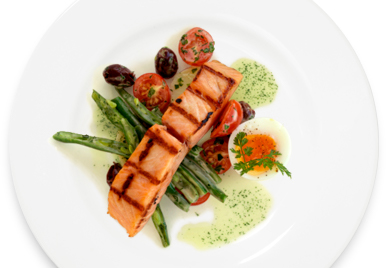
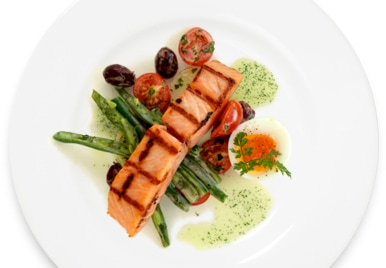
画像圧縮

diff --git a/styles/stylesheet_s.css b/styles/stylesheet_s.css
@@ -6,12 +6,10 @@ body {
 
 .container {
 	width: 90%;
-	margin: 0 auto;
 	padding: 0 5%;
 }
 
 .title {
-	margin: 0 auto;
 	padding-top: 13.793103%;
 	padding-bottom: 6.896552%;
 }
@@ -26,14 +24,8 @@ body {
 }
 
 header {
-	width: 100%;
 	height: auto;
-	background-color: white;
-	border-bottom: rgb(242,242,242) solid 2px;
 	padding-top: 0;
-	position :fixed;
-	top: 0;
-	z-index: 2;
 }
 
 .header-logo {
@@ -70,7 +62,6 @@ header {
 }
 
 .menu-wrapper {
-	background-color: rgb(249,235,210);
 	width: 100%;
 	height: auto;
 	padding-bottom: 7.34375%; 
@@ -209,30 +200,19 @@ header {
 .menu img {
 	width: 100%;
 	height: 100%;
-	margin: 0 auto;
 	vertical-align:bottom;
 }
 
-.menu-pic {
-	position: relative;
-	height: 100%;
-}
-
 .menu-pic a {
-	position: absolute;
 	top: 103.355705%;
 	width: 100%;
 	color: #6f5839;
 	font-size: 3.75vw;
-	text-align: center;
-	font-family: "Hiragino Kaku Gothic ProN","メイリオ",'Meiryo', sans-serif;
 }
 
 .menu-left {
 	width: 89.655172%;
 	height: auto;
-	background-color: white;
-	margin: 0 auto;
 	margin-bottom: 12.884615%;
 	padding-bottom: 0%; 
 }
@@ -240,27 +220,21 @@ header {
 .menu-right {
 	width: 89.655172%;
 	height: auto;
-	background-color: white;
-	margin: 0 auto;
 	margin-bottom: 12.884615%;
 }
 
 .news-wrapper {
 	width: 100%;
 	height: auto;
-
 }
 
 .title-news {
 	width: 67.241379%;
 	height: auto;
-	margin: 0 auto;
 }
 
 .news {
-	width: calc(100% / 2) ;
 	height: 100%;
-	float: left;
 	margin-bottom: 0;
  }
 
@@ -277,77 +251,54 @@ header {
 .news1 {
 	width: 87.586207%;
 	height: 40%;
-	background-color: white;
-	position: relative;
-	float: right;
 	margin-right: 1.724138%;
 	margin-bottom: 3.448276%;
 }
 
 .news-text1{
-	position: absolute;
 	top: 62.130178%;
 	height: 37.869822%;
-	width: 100%;
-	background-color: rgba(127,127,127,0.5);
 }
 
 .news-text1 p{
 	font-size: 3.75vw;
-	color:white;
 	margin: 5.859375% 7.857143% ;
-	vertical-align: middle;
 	line-height: 137.5%;
 }
 
 .news2 {
 	width: 87.586207%;
 	height: 40%;
-	background-color: white;
-	position: relative;
-	float: left;
 	margin-left: 1.724138%;
 	margin-bottom: 3.448276%;
 }
 
 .news-text2{
-	position: absolute;
 	top: 62.130178%;
 	height: 37.869822%;
-	width: 100%;
-	background-color: rgba(127,127,127,0.5);
 }
 
 .news-text2 p{
 	font-size: 3.75vw;
-	color:white;
 	margin: 5.859375% 7.857143% ;
-	vertical-align: middle;
 	line-height: 137.5%;
 }
 
 .news3 {
 	width: 87.586207%;
 	height: 40%;
-	background-color: white;
-	float: right;
-	position: relative;
 	margin-right: 1.724138%;
 }
 
 .news-text3{
-	position: absolute;
 	top: 62.130178%;
 	height: 37.869822%;
 	width: 100%;
-	background-color: rgba(127,127,127,0.5);
 }
 
 .news-text3 p{
 	font-size: 3.75vw;
-	color:white;
 	margin: 5.859375% 7.857143% ;
-	vertical-align: middle;
 	line-height: 137.5%;
 }
 
@@ -359,18 +310,14 @@ header {
 .title-phot {
 	width: 88.103448%;
 	height: auto;
-	margin: 0 auto;
 }
 
 .photo-container{
 	width: 81.25%;
-	margin: 0 auto;
 }
 
 .photo {
-	width: calc(100% / 3) ;
 	height: 100%;
-	float: left;
 	margin-bottom: 0.78125%;
 }
 
@@ -388,13 +335,11 @@ header {
 .photo2 {
 	height: 100%;
 	width: 96.144936%;
-	margin: 0 auto;
 }
 
 .photo3 {
 	height: 100%;
 	width: 96.144936%;
-	float: right;
 }
 
 .photo4 {
@@ -406,27 +351,20 @@ header {
 .photo5 {
 	height: 100%;
 	width: 96.144936%;
-	margin: 0 auto;
 }
 
 .photo6 {
 	height: 100%;
 	width: 96.144936%;
-	float: right;
 }
 
 .footer-text {
 	padding-top: 3.125%;
-	margin: 0 auto;
-	color: #cccccc;
 	font-size: 3.125vw;
-	text-align: center;
 }
 
 footer {
-	width: 100%;
 	height: auto;
-	background-color: rgb(111,88,57);
 	margin: 14.0625% auto 0;
 	padding-bottom: 15.625%;
 }

diff --git a/index.html b/index.html
@@ -10,8 +10,6 @@
 	<link rel="stylesheet" media="all" type="text/css" href="styles/slider_responsib.css">
 	<script type="text/javascript" src="jquery/jquery-1.12.0.min.js">
 	</script>
-	<script type="text/javascript" src="jquery/jquery.carouFredSel-6.2.1-packed.js">
-	</script>
 </head>
 <body>
 	<header>
@@ -220,7 +218,9 @@
 			</div>
 		</div>
 	</footer>
-	<script type="text/javascript" src="scripts/script.js">
+	<script type="text/javascript" src="jquery/jquery.carouFredSel-6.2.1-packed.js" async>
+	</script>
+	<script type="text/javascript" src="scripts/script.js" async>
 	</script>
 </body>
 </html>
